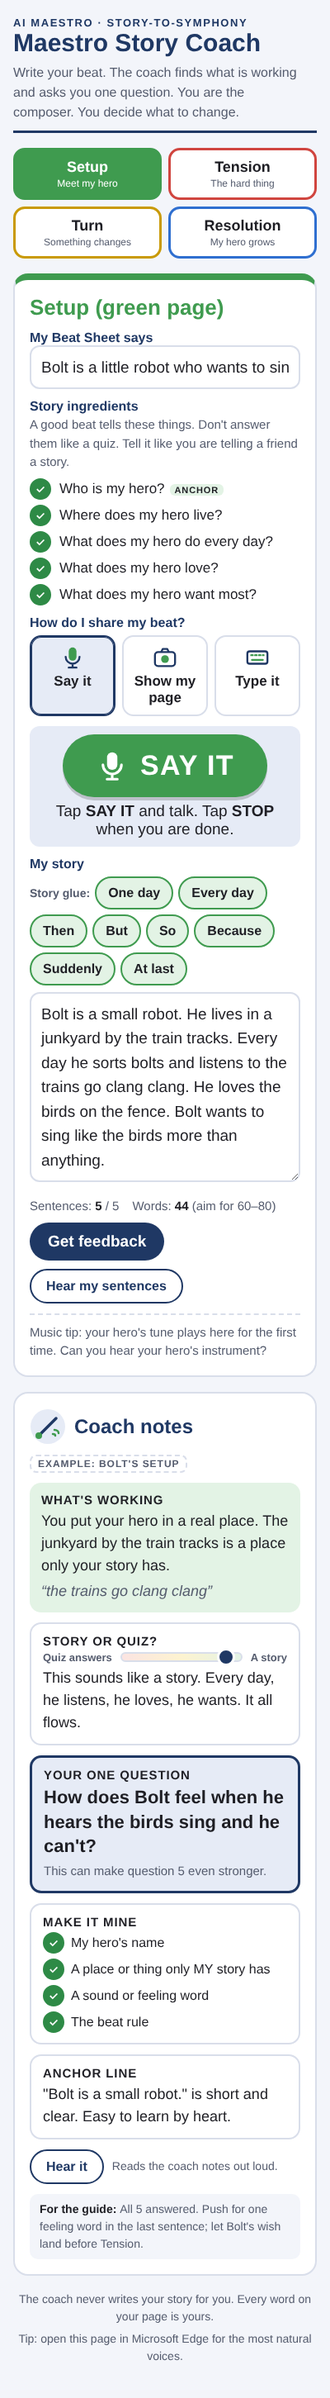
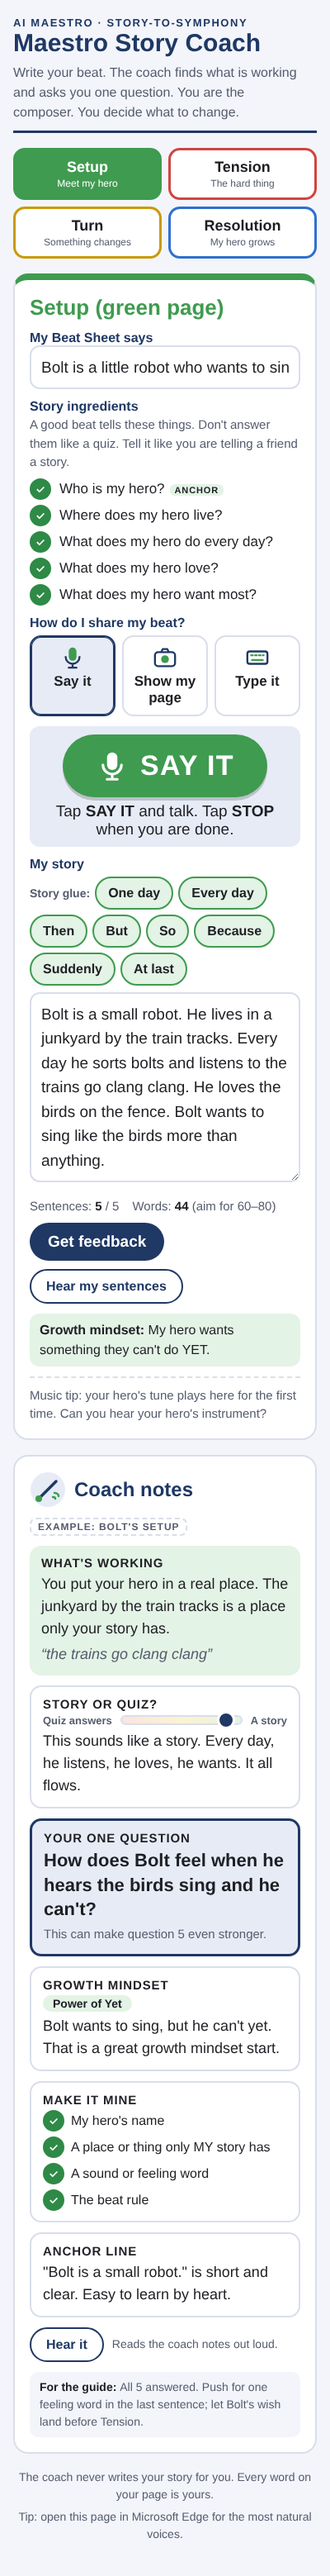
Growth mindset: per-beat rule on page, growth check card, coach asks about it first
Claude-Session: https://claude.ai/code/session_015eDaj42zuNcX7AaagKbwu7

diff --git a/index.html b/index.html
@@ -113,6 +113,12 @@ textarea{min-height:230px;resize:vertical}
 .shape{display:grid;grid-template-columns:auto 1fr auto;gap:10px;align-items:center;font:600 13px var(--display);color:var(--muted)}
 .shape-bar{position:relative;height:12px;border-radius:999px;background:linear-gradient(90deg,var(--tension-soft),var(--turn-soft),var(--setup-soft));border:2px solid var(--line)}
 .shape-dot{position:absolute;top:50%;width:22px;height:22px;border-radius:50%;background:var(--navy);border:3px solid var(--paper);transform:translate(-50%,-50%);left:50%;transition:left .4s}
+.gm{font-size:16px;background:var(--setup-soft);border-radius:12px;padding:8px 12px}
+.gm b{font-family:var(--display)}
+.gmcard{border:2px solid var(--line)}
+.gm-flag{align-self:flex-start;font:600 14px var(--display);border-radius:999px;padding:2px 12px}
+.gm-flag.ok{background:var(--setup-soft);color:var(--ink)}
+.gm-flag.no{background:var(--turn-soft);color:var(--ink)}
 footer{font-size:14px;color:var(--muted);text-align:center}
 @media (prefers-reduced-motion:no-preference){.pop{animation:pop .35s ease-out}@keyframes pop{from{transform:scale(.97);opacity:.6}to{transform:none;opacity:1}}}
 </style>
@@ -175,6 +181,7 @@ footer{font-size:14px;color:var(--muted);text-align:center}
         <button class="btn ghost" id="hearMineBtn">Hear my sentences</button>
         <span class="status" id="status" role="status"></span>
       </div>
+      <div class="gm" id="gmRule"></div>
       <div class="music" id="musicTip"></div>
     </section>
 
@@ -198,6 +205,11 @@ footer{font-size:14px;color:var(--muted);text-align:center}
         <h3>Your one question</h3>
         <p id="nextText"></p>
         <div style="font-size:15px;color:var(--muted)" id="nextWhy"></div>
+      </div>
+      <div class="card gmcard" id="gmCard">
+        <h3>Growth mindset</h3>
+        <div class="gm-flag" id="gmFlag"></div>
+        <div id="gmNote"></div>
       </div>
       <div class="card" style="border:2px solid var(--line)">
         <h3>Make it mine</h3>
@@ -224,19 +236,19 @@ footer{font-size:14px;color:var(--muted);text-align:center}
 
 <script>
 const BEATS = {
-  setup: {name:"Setup", color:"green", c:"--setup", sub:"Meet my hero",
+  setup: {name:"Setup", color:"green", c:"--setup", sub:"Meet my hero", growth:"My hero wants something they can't do YET.",
     qs:["Who is my hero?","Where does my hero live?","What does my hero do every day?","What does my hero love?","What does my hero want most?"],
     rule:"Show the hero's normal world before anything goes wrong. Nothing bad happens yet.",
     music:"Music tip: your hero's tune plays here for the first time. Can you hear your hero's instrument?"},
-  tension: {name:"Tension", color:"red", c:"--tension", sub:"The hard thing",
+  tension: {name:"Tension", color:"red", c:"--tension", sub:"The hard thing", growth:"My hero tries and makes mistakes. It is hard, but they don't quit forever.",
     qs:["What goes wrong?","What does my hero try first?","What happens?","How does my hero feel? What do they say?","What makes it even harder?"],
     rule:"Something goes wrong. The hero tries, and it does not work yet. It gets harder.",
     music:"Music tip: stuck music. Slow, low, quiet, or one instrument alone. Does your story feel stuck too?"},
-  turn: {name:"Turn", color:"yellow", c:"--turn", sub:"Something changes",
+  turn: {name:"Turn", color:"yellow", c:"--turn", sub:"Something changes", growth:"My hero grows by trying a new strategy, practicing, or asking for help. Not magic. Not luck. Nobody fixes it for them.",
     qs:["Who or what helps my hero?","What new idea or strategy does my hero try?","What does my hero do differently?","What happens this time?","How does it feel?"],
     rule:"The change comes from a new strategy or a helper. It is not magic. The hero does something different.",
     music:"Music tip: this is where the music starts to change. What sound tells us your hero found a new idea?"},
-  resolution: {name:"Resolution", color:"blue", c:"--res", sub:"My hero grows",
+  resolution: {name:"Resolution", color:"blue", c:"--res", sub:"My hero grows", growth:"My hero can do it now BECAUSE they worked at it. They learned something about trying.",
     qs:["What can my hero do now?","What changed for my hero?","How does my hero feel?","What did my hero learn?","What happens next?"],
     rule:"Show what the hero can do now that they could not do before, and what they learned.",
     music:"Music tip: growth music. Fast, high, bright, or everybody playing. Does your ending feel like it grows?"}
@@ -253,6 +265,7 @@ const EXAMPLE = {
     answered:[true,true,true,true,true],
     anchor:{ok:true,note:"\"Bolt is a small robot.\" is short and clear. Easy to learn by heart."},
     mine:{name:true,only_mine:true,sound_feeling:true,beat_rule:true},
+    growth:{ok:true, issue:"none", note:"Bolt wants to sing, but he can't yet. That is a great growth mindset start."},
     shape:"story", shape_note:"This sounds like a story. Every day, he listens, he loves, he wants. It all flows.",
     next_question:"How does Bolt feel when he hears the birds sing and he can't?",
     next_why:"This can make question 5 even stronger.",
@@ -312,6 +325,7 @@ function renderBeat(){
   $("beatTitle").textContent = `${b.name} (${b.color} page)`;
   $("beatTitle").style.color = `var(${b.c})`;
   $("musicTip").textContent = b.music;
+  $("gmRule").innerHTML = "<b>Growth mindset:</b> "; $("gmRule").append(b.growth);
   const d = drafts[beat] || {};
   $("sheetLine").value = d.sheet || "";
   $("story").value = d.story || "";
@@ -338,6 +352,14 @@ function addGlue(w){
   renderMeter(); saveDraft();
   if(mode==="type"){ t.focus(); t.setSelectionRange(t.value.length,t.value.length); }
 }
+function showGrowth(fb){
+  const g = fb && fb.growth;
+  $("gmCard").hidden = !g;
+  if(!g) return;
+  $("gmFlag").className = "gm-flag " + (g.ok ? "ok" : "no");
+  $("gmFlag").textContent = g.ok ? "Power of Yet" : "Not yet";
+  $("gmNote").textContent = g.note || "";
+}
 function showShape(fb){
   const pos = {answers:12, mixed:50, story:88}[fb && fb.shape] ;
   $("shapeCard").hidden = pos===undefined;
@@ -360,7 +382,7 @@ function showFb(fb,isExample){
     $("mine").append(s);
   });
   $("anchorText").textContent = fb.anchor ? fb.anchor.note : "";
-  showShape(fb);
+  showShape(fb); showGrowth(fb);
   $("guideTip").innerHTML = "";
   if(fb.guide_tip){const b=document.createElement("b");b.textContent="For the guide: ";$("guideTip").append(b,fb.guide_tip)}
   $("guideTip").hidden = !fb.guide_tip;
@@ -377,7 +399,7 @@ function showEmptyCoach(){
   MINE.forEach(([k,l])=>{const s=document.createElement("span");s.innerHTML=`<span class="dot" aria-hidden="true"></span>`;s.append(l);$("mine").append(s)});
   $("anchorText").textContent = "Your answer to question 1 is your anchor line. Keep it short so you can learn it by heart.";
   $("guideTip").hidden = true;
-  $("shapeCard").hidden = true;
+  $("shapeCard").hidden = true; $("gmCard").hidden = true;
   lastFb = null;
 }
 
@@ -541,7 +563,7 @@ $("sayBtn").onclick = ()=>{ listening ? stopListening() : startListening(); };
 if(!SR){ $("sayBtn").hidden = true; $("sayStep").hidden = true; $("sayFallback").hidden = false; }
 $("hearMineBtn").onclick = ()=>speak($("story").value || "There are no sentences yet.");
 function hear(){
-  const txt = lastFb ? `${lastFb.star} ${lastFb.shape && lastFb.shape!=="story" && lastFb.shape_note ? lastFb.shape_note+" " : ""}Here is your one question. ${lastFb.next_question}` : $("nextText").textContent;
+  const txt = lastFb ? `${lastFb.star} ${lastFb.growth && !lastFb.growth.ok && lastFb.growth.note ? lastFb.growth.note+" " : ""}${lastFb.shape && lastFb.shape!=="story" && lastFb.shape_note ? lastFb.shape_note+" " : ""}Here is your one question. ${lastFb.next_question}` : $("nextText").textContent;
   speak(txt);
 }
 

diff --git a/api/feedback.js b/api/feedback.js
@@ -7,21 +7,25 @@
 const BEATS = {
   setup: {
     name: "Setup",
+    growth: "The hero should want something they cannot do yet (a 'not yet' goal). Talent they already have is not a goal.",
     rule: "Show the hero's normal world before anything goes wrong. Nothing bad happens yet.",
     qs: ["Who is my hero?", "Where does my hero live?", "What does my hero do every day?", "What does my hero love?", "What does my hero want most?"],
   },
   tension: {
     name: "Tension",
+    growth: "The hero tries and it does not work yet. Mistakes and hard feelings ('I can't') are fine and good here. The hero should not be instantly good, and should not give up for good.",
     rule: "Something goes wrong. The hero tries, and it does not work yet. It gets harder.",
     qs: ["What goes wrong?", "What does my hero try first?", "What happens?", "How does my hero feel? What do they say?", "What makes it even harder?"],
   },
   turn: {
     name: "Turn",
+    growth: "The change must come from the hero's own effort: a new strategy, practice, learning from a mistake, or asking for help and then doing it themselves. Red flags: magic, luck, a wish, a sudden power, someone else solving the problem, or 'then he was just good at it'.",
     rule: "The change comes from a new strategy or a helper. It is not magic. The hero does something different.",
     qs: ["Who or what helps my hero?", "What new idea or strategy does my hero try?", "What does my hero do differently?", "What happens this time?", "How does it feel?"],
   },
   resolution: {
     name: "Resolution",
+    growth: "The hero succeeds BECAUSE of their effort and strategy, and shows they learned something about trying, mistakes, or practice (Power of Yet). Red flags: success from magic, luck, a gift, someone else; or no link between the work and the win.",
     rule: "Show what the hero can do now that they could not do before, and what they learned.",
     qs: ["What can my hero do now?", "What changed for my hero?", "How does my hero feel?", "What did my hero learn?", "What happens next?"],
   },
@@ -39,6 +43,8 @@ YOUR JOB: give feedback on ONE beat. The workshop's coaching rules are strict:
 - The student is the composer. NEVER rewrite their sentences, never write new sentences for them, never suggest plot events or names. Ask, don't pick.
 - Notice something specific that works, and quote 2 to 8 of the student's own exact words.
 - Give exactly ONE next question that helps them add or fix one thing. It must be a question, under 16 words, that only they can answer. Prefer questions that make the story more their own ("What is something only YOUR hero would do?") or that fill a missing question from the page.
+- GROWTH MINDSET. Every story in this workshop is a growth mindset story (the Power of Yet): the hero can't do something yet, struggles, and grows through effort, new strategies, practice, mistakes, and help, never through magic, luck, or someone else fixing it. Check this beat against its growth mindset rule below and fill "growth". Judge only what this beat is supposed to do; a Setup does not need the win yet. A sad or stuck feeling in Tension is good, not a problem.
+- WHICH QUESTION TO ASK. If the beat breaks its growth mindset rule (issue is not "none"), the ONE next_question must point at that (for example "What could [hero] practice or try differently?" or "What does [hero] do, not the [helper], to fix it?"). Otherwise, if it sounds like quiz answers, ask about connecting. Otherwise ask whatever makes it more their own.
 - STORY, NOT QUIZ. The 5 questions are story ingredients, not a quiz. A big problem is students answering them like a worksheet instead of telling a story. Decide the "shape":
   "answers" = reads like quiz answers: separate facts that don't connect ("My hero is a cat. He lives in a barn. He likes fish."), short fragments ("A cat. A barn."), sentences that repeat the question words, or the questions read aloud. Nothing happens; nobody does anything that leads to the next thing.
   "story" = reads like someone telling a story: the hero does things, sentences connect in time or cause (one day, then, but, so, because, every day, suddenly), there is a little action, a moment, or a feeling we can picture.
@@ -51,6 +57,7 @@ YOUR JOB: give feedback on ONE beat. The workshop's coaching rules are strict:
 
 THIS BEAT: ${b.name}
 Beat rule: ${b.rule}
+Growth mindset rule for this beat: ${b.growth}
 The 5 questions:
 ${b.qs.map((q, i) => `${i + 1}. ${q}`).join("\n")}
 
@@ -65,6 +72,7 @@ Give your feedback by calling the give_feedback tool exactly once. Do not write 
  "mine": {"name": true, "only_mine": true, "sound_feeling": false, "beat_rule": true},
  "shape": "answers | mixed | story",
  "shape_note": "1 short kid-friendly sentence: does it sound like a story or like quiz answers, and why",
+ "growth": {"ok": true, "issue": "none | no_goal | instant | gave_up | magic | rescued | luck | no_lesson", "note": "1 short kid-friendly sentence about the growth mindset in this beat"},
  "next_question": "the one question",
  "next_why": "very short: which page question or Make it mine box this helps",
  "guide_tip": "1 sentence for the adult guide on how to conference this child; may use adult words"${hasPhoto ? `,\n "transcript": "the student's sentences read from the photo"` : ""}}
@@ -82,13 +90,22 @@ function feedbackTool(hasPhoto) {
       properties: { name: { type: "boolean" }, only_mine: { type: "boolean" }, sound_feeling: { type: "boolean" }, beat_rule: { type: "boolean" } },
       required: ["name", "only_mine", "sound_feeling", "beat_rule"],
     },
+    growth: {
+      type: "object",
+      properties: {
+        ok: { type: "boolean", description: "true when this beat follows its growth mindset rule" },
+        issue: { type: "string", enum: ["none", "no_goal", "instant", "gave_up", "magic", "rescued", "luck", "no_lesson"] },
+        note: { type: "string", description: "1 short kid-friendly sentence" },
+      },
+      required: ["ok", "issue", "note"],
+    },
     shape: { type: "string", enum: ["answers", "mixed", "story"], description: "does it read like quiz answers or like a told story" },
     shape_note: { type: "string", description: "1 short kid-friendly sentence about story vs quiz answers" },
     next_question: { type: "string", description: "the one question for the student" },
     next_why: { type: "string" },
     guide_tip: { type: "string" },
   };
-  const required = ["star", "star_quote", "answered", "anchor", "mine", "shape", "shape_note", "next_question", "next_why", "guide_tip"];
+  const required = ["star", "star_quote", "answered", "anchor", "mine", "growth", "shape", "shape_note", "next_question", "next_why", "guide_tip"];
   if (hasPhoto) { props.transcript = { type: "string", description: "the student's sentences read from the photo" }; required.push("transcript"); }
   return {
     name: "give_feedback",
